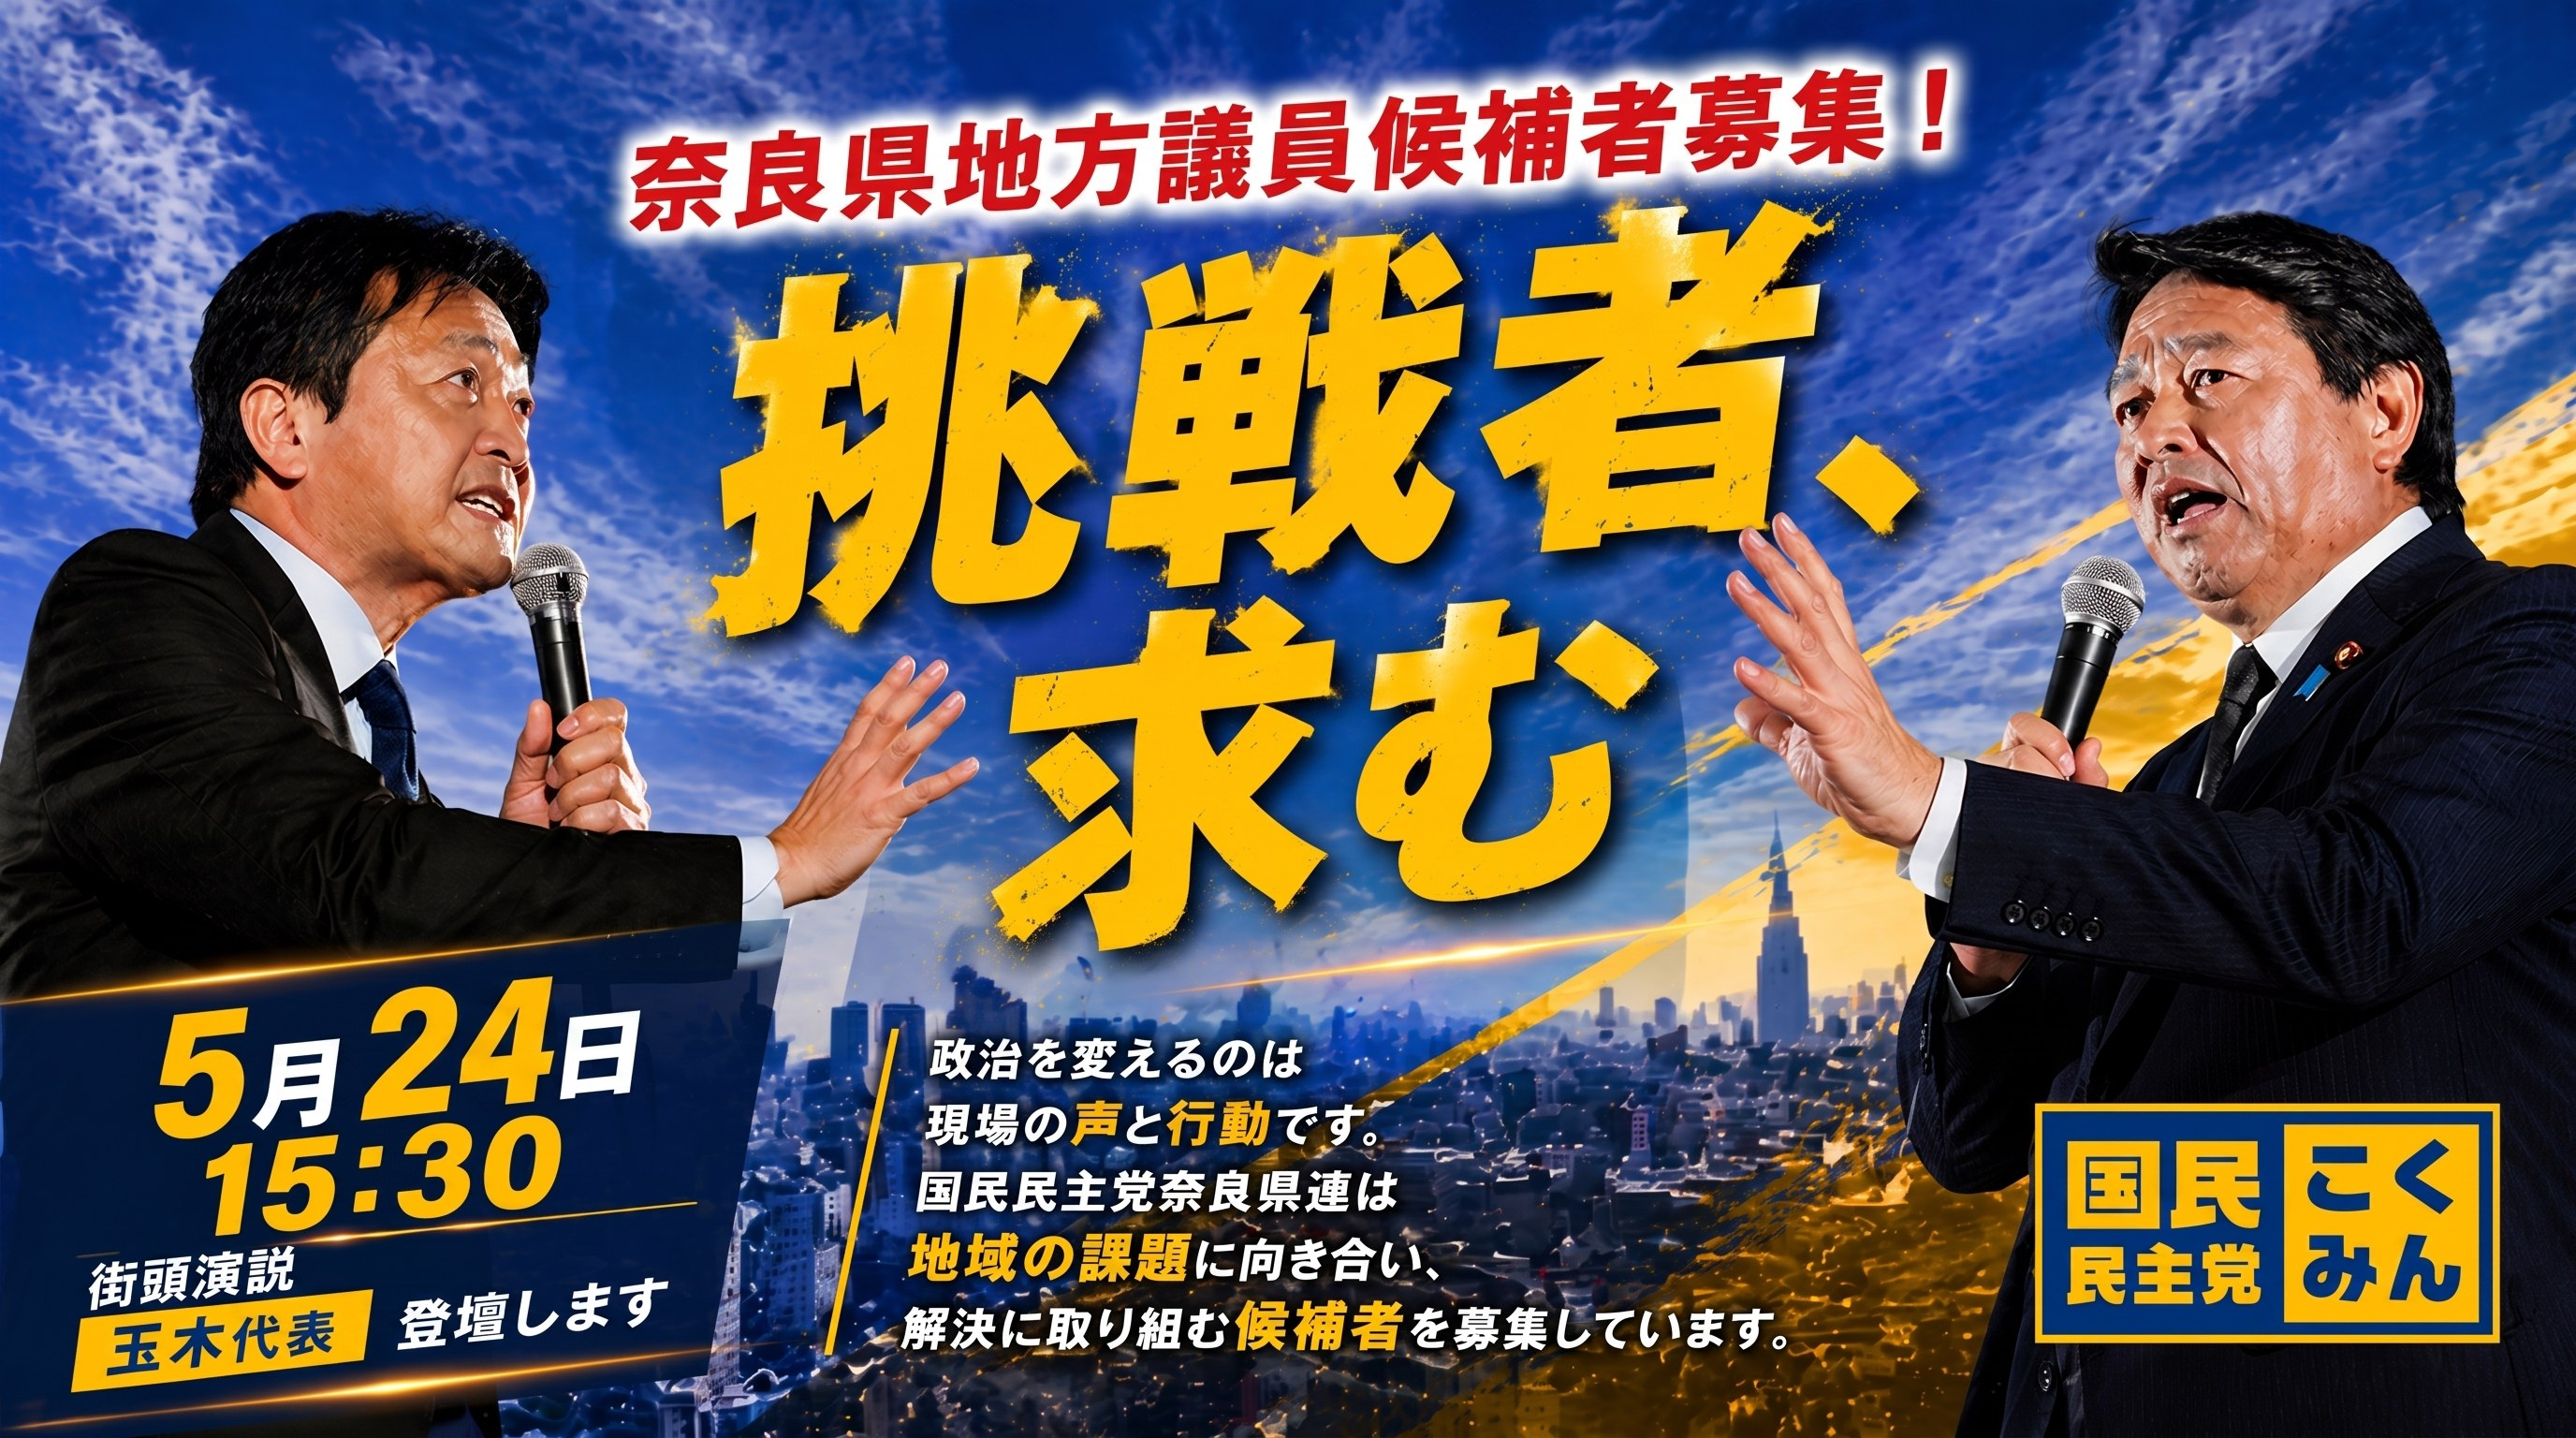
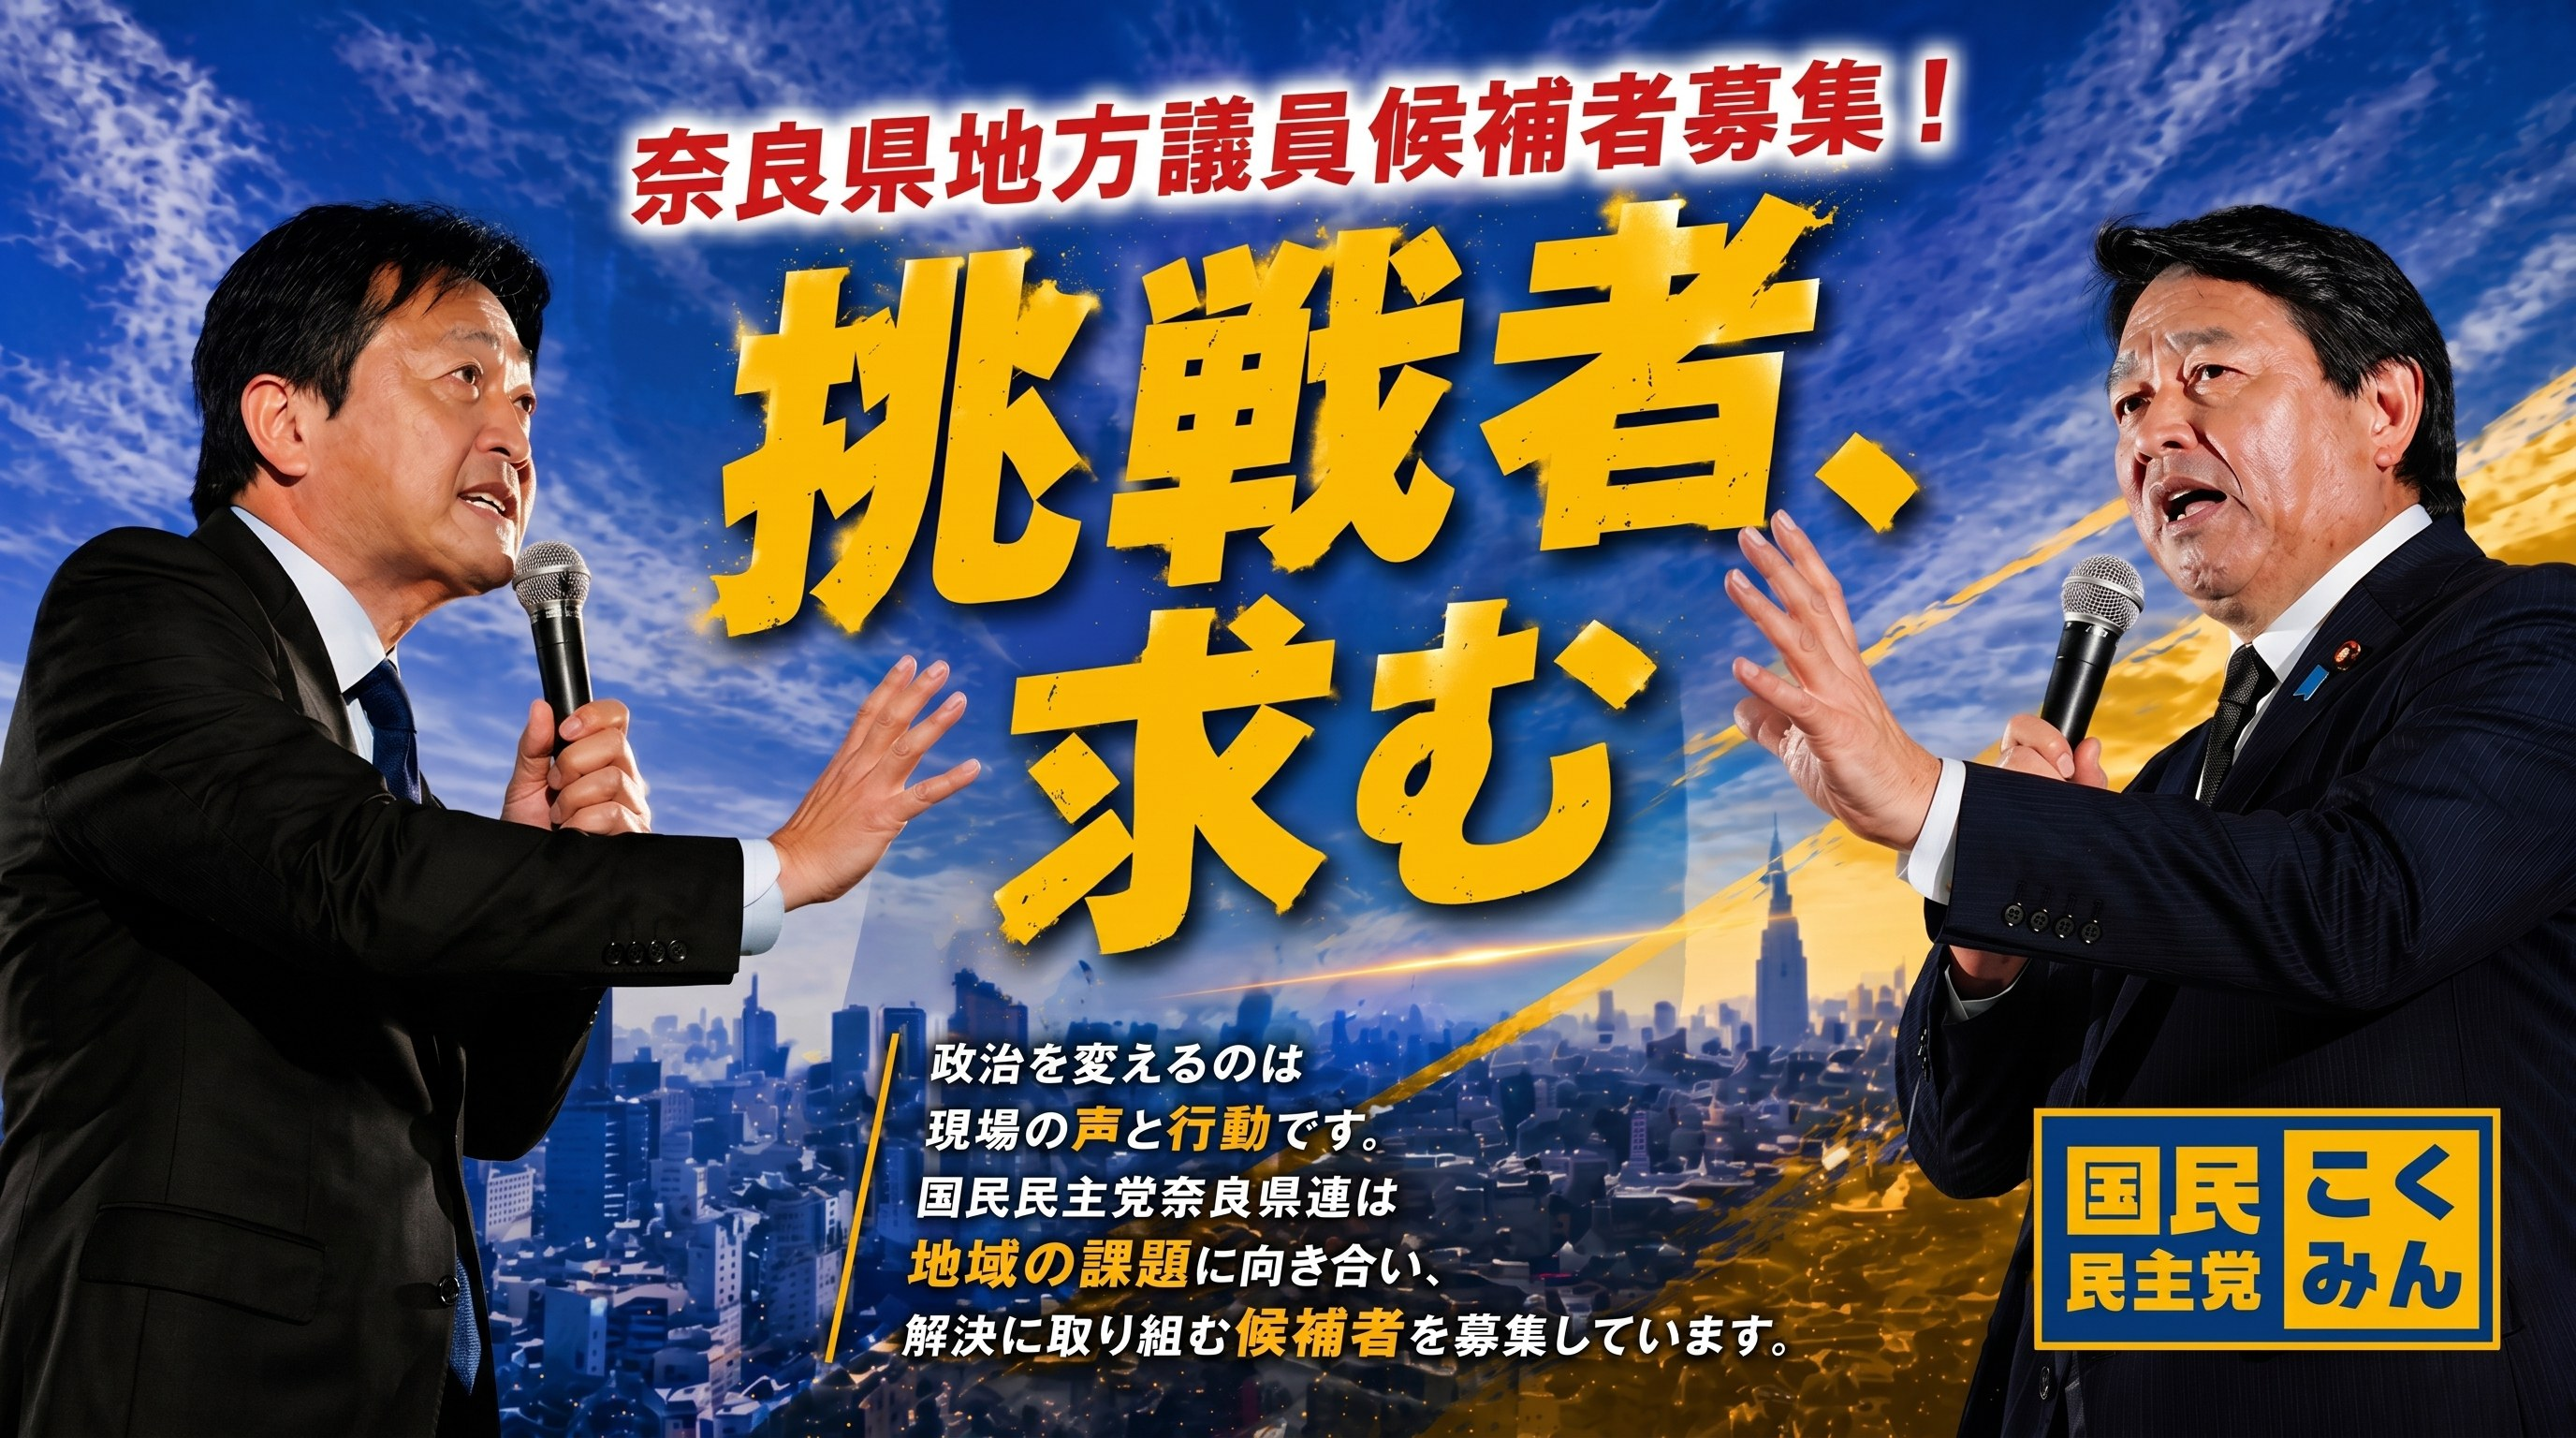
活動予定刷新 + FV画像から5/24除去 + 768pxタブレット境界の抜け解消
【1. 活動予定セクション】
- 見出し「今月の活動予定」→「活動予定」
- 日付表記を縦積み(JUN/07)から「6/7(日)」インライン形式に変更
- 過去実績として「5/24(日) 玉木雄一郎代表 来県イベント」を復活
  (トーンダウン表示 + 終了タグ)
- ladderリンク文言「今月の活動予定」→「活動予定を見る」

【2. FV画像3枚から5/24イベント情報を除去 (Higgsfield Nano Banana Pro)】
- 「5月24日 15:30 / 街頭演説 / 玉木代表 / 登壇します」の左下ブロックを除去
- 跡地は夜景シティスケープで自然に補完 → 固定で使い回せるヒーローに
- 玉木代表・榛葉幹事長の写真、「挑戦者、求む」見出し、
  候補者募集コピー、こくみんロゴ等は完全維持
- pc/tablet/mobile 3サイズすべて編集
- これによりイベント告知は下の「お知らせバナー」に一本化

【3. 768pxブレークポイントの抜けを解消】
- タブレットルールを min-width:769px → 768px に拡張
  (iPad mini 768px が mobile 1カラムに落ちていた問題を解消)
- FV picture source を max-width:768px → 767px に変更
  (768pxでタブレット画像が出るよう整合)
- 768pxで ladder3列/voice2列/area2列/footer2列が正しく適用されることを確認

【4. お知らせバナー更新 + フッターマーキー】
- バナーを「5/24終了」→「6/7(日)立候補相談会 告知」に更新
  (5/24は活動予定の過去実績に移動したため、直近イベントを訴求)
- フッターマーキー「5.24 開催ありがとうございました」→「候補者 募集中」

【検証済 viewport】PC1280 / iPad1024 / iPad810 / iPad mini768 / スマホ375
全て横スクロールなし・FV画像クリーン・スケジュール新形式

diff --git a/index.html b/index.html
@@ -1327,14 +1327,20 @@
     font-family: 'Montserrat', sans-serif;
     font-weight: 700;
     color: var(--navy);
-    font-size: 14px;
-    letter-spacing: 0.05em;
+    display: flex;
+    align-items: baseline;
+    gap: 5px;
   }
-  .schedule-date .day {
-    display: block;
-    font-size: 28px;
+  .schedule-date-md {
+    font-size: 30px;
+    font-weight: 900;
     line-height: 1;
-    margin-top: 4px;
+    letter-spacing: -0.02em;
+  }
+  .schedule-date-dow {
+    font-size: 15px;
+    font-weight: 700;
+    color: var(--gray-500);
   }
   .schedule-content { font-size: 16px; font-weight: 500; }
   .schedule-content .schedule-title {
@@ -1358,6 +1364,11 @@
   }
   .schedule-tag.street { background: var(--orange); color: var(--white); }
   .schedule-tag.seminar { background: var(--navy); color: var(--white); }
+  .schedule-tag.past { background: var(--gray-200); color: var(--gray-500); }
+  /* 過去の予定（実績）はトーンダウン */
+  .schedule-item.is-past { opacity: 0.7; }
+  .schedule-item.is-past .schedule-date { color: var(--gray-500); }
+  .schedule-item.is-past .schedule-title { color: var(--gray-500); }
   .schedule-note {
     text-align: center;
     margin-top: 32px;
@@ -2126,7 +2137,7 @@
 
   /* ===== iPad縦向き最適化 (769-1024px) =====
      mobile rules (≤900) より後に書いて優先・iPad portrait の空き空間を活用 */
-  @media (min-width: 769px) and (max-width: 1024px) {
+  @media (min-width: 768px) and (max-width: 1024px) {
     /* ladder (3つの入口): 1カラム → 3カラム */
     .ladder-wrapper {
       grid-template-columns: repeat(3, 1fr);
@@ -2257,11 +2268,11 @@
 <!-- ====== Main Visual v7（2025 editorial poster／余白の律理） ====== -->
 <section class="mv">
   <picture class="mv-picture">
-    <!-- スマホ縦長 -->
-    <source media="(max-width: 768px)" srcset="assets/images/fv/fv-mobile.jpg">
-    <!-- タブレット -->
+    <!-- スマホ縦長 (〜767px) -->
+    <source media="(max-width: 767px)" srcset="assets/images/fv/fv-mobile.jpg">
+    <!-- タブレット (768〜1180px) -->
     <source media="(max-width: 1180px)" srcset="assets/images/fv/fv-tablet.jpg">
-    <!-- PC -->
+    <!-- PC (1181px〜) -->
     <img src="assets/images/fv/fv-pc.jpg" alt="挑戦者、求む。 国民民主党 奈良県総支部連合会 候補者公募" fetchpriority="high">
   </picture>
 </section>
@@ -2284,8 +2295,8 @@
   <div class="news-banner-inner">
     <span class="news-banner-tag">お知らせ</span>
     <p class="news-banner-text">
-      <strong>2026年5月24日（日）のイベントは無事終了しました。</strong>
-      <span>ご来場・ご参加、誠にありがとうございました。次回イベント情報は決定次第お知らせいたします。</span>
+      <strong>6/7（日）立候補相談会を開催します（10:00〜12:00・予約不要）</strong>
+      <span>候補者公募にご関心のある方は、お気軽にお越しください。詳しくは下記「活動予定」をご覧ください。</span>
     </p>
   </div>
 </section>
@@ -2320,7 +2331,7 @@
         <span class="ladder-step-label">STEP / 聞く</span>
         <h3 class="ladder-title">聞く</h3>
         <p class="ladder-desc">街頭演説・イベントに参加して、現場の空気を体感する。</p>
-        <a href="#schedule-section-anchor" class="ladder-link">今月の活動予定</a>
+        <a href="#schedule-section-anchor" class="ladder-link">活動予定を見る</a>
       </div>
       <div class="ladder-item">
         <div class="ladder-usagi"><img src="assets/images/usagi/usagi-kyoshu.png" alt="こくみんうさぎ 挙手"></div>
@@ -2756,20 +2767,34 @@
 <section class="schedule-section" id="schedule-section-anchor">
   <div class="container">
     <div class="section-title">
-      <span class="jp">今月の活動予定</span>
+      <span class="jp">活動予定</span>
       <span class="en">SCHEDULE</span>
     </div>
     <div class="schedule-wrapper">
+      <!-- 今後の予定 -->
       <div class="schedule-item">
         <div class="schedule-date">
-          JUN
-          <span class="day">07</span>
+          <span class="schedule-date-md">6/7</span>
+          <span class="schedule-date-dow">(日)</span>
         </div>
         <div class="schedule-content">
           <div class="schedule-title">立候補相談会</div>
           <div class="schedule-place">10:00〜12:00 ／ 予約不要</div>
         </div>
         <span class="schedule-tag">相談会</span>
+      </div>
+
+      <!-- 過去の予定（実績） -->
+      <div class="schedule-item is-past">
+        <div class="schedule-date">
+          <span class="schedule-date-md">5/24</span>
+          <span class="schedule-date-dow">(日)</span>
+        </div>
+        <div class="schedule-content">
+          <div class="schedule-title">玉木雄一郎代表 来県イベント</div>
+          <div class="schedule-place">県連大会・第1回こくみん奈良政策アカデミー・街頭演説会</div>
+        </div>
+        <span class="schedule-tag past">終了</span>
       </div>
     </div>
     <p class="schedule-note">※最新スケジュールは公式SNSにて随時更新</p>
@@ -2838,13 +2863,13 @@
       <span>挑戦者、求む</span>
       <span>2027.4 STATEWIDE LOCAL ELECTION</span>
       <span>応募締切 2027.2.28</span>
-      <span>5.24 開催ありがとうございました</span>
+      <span>候補者 募集中</span>
       <span>NARA PREFECTURE</span>
       <span>DPFP</span>
       <span>挑戦者、求む</span>
       <span>2027.4 STATEWIDE LOCAL ELECTION</span>
       <span>応募締切 2027.2.28</span>
-      <span>5.24 開催ありがとうございました</span>
+      <span>候補者 募集中</span>
       <span>NARA PREFECTURE</span>
       <span>DPFP</span>
     </div>